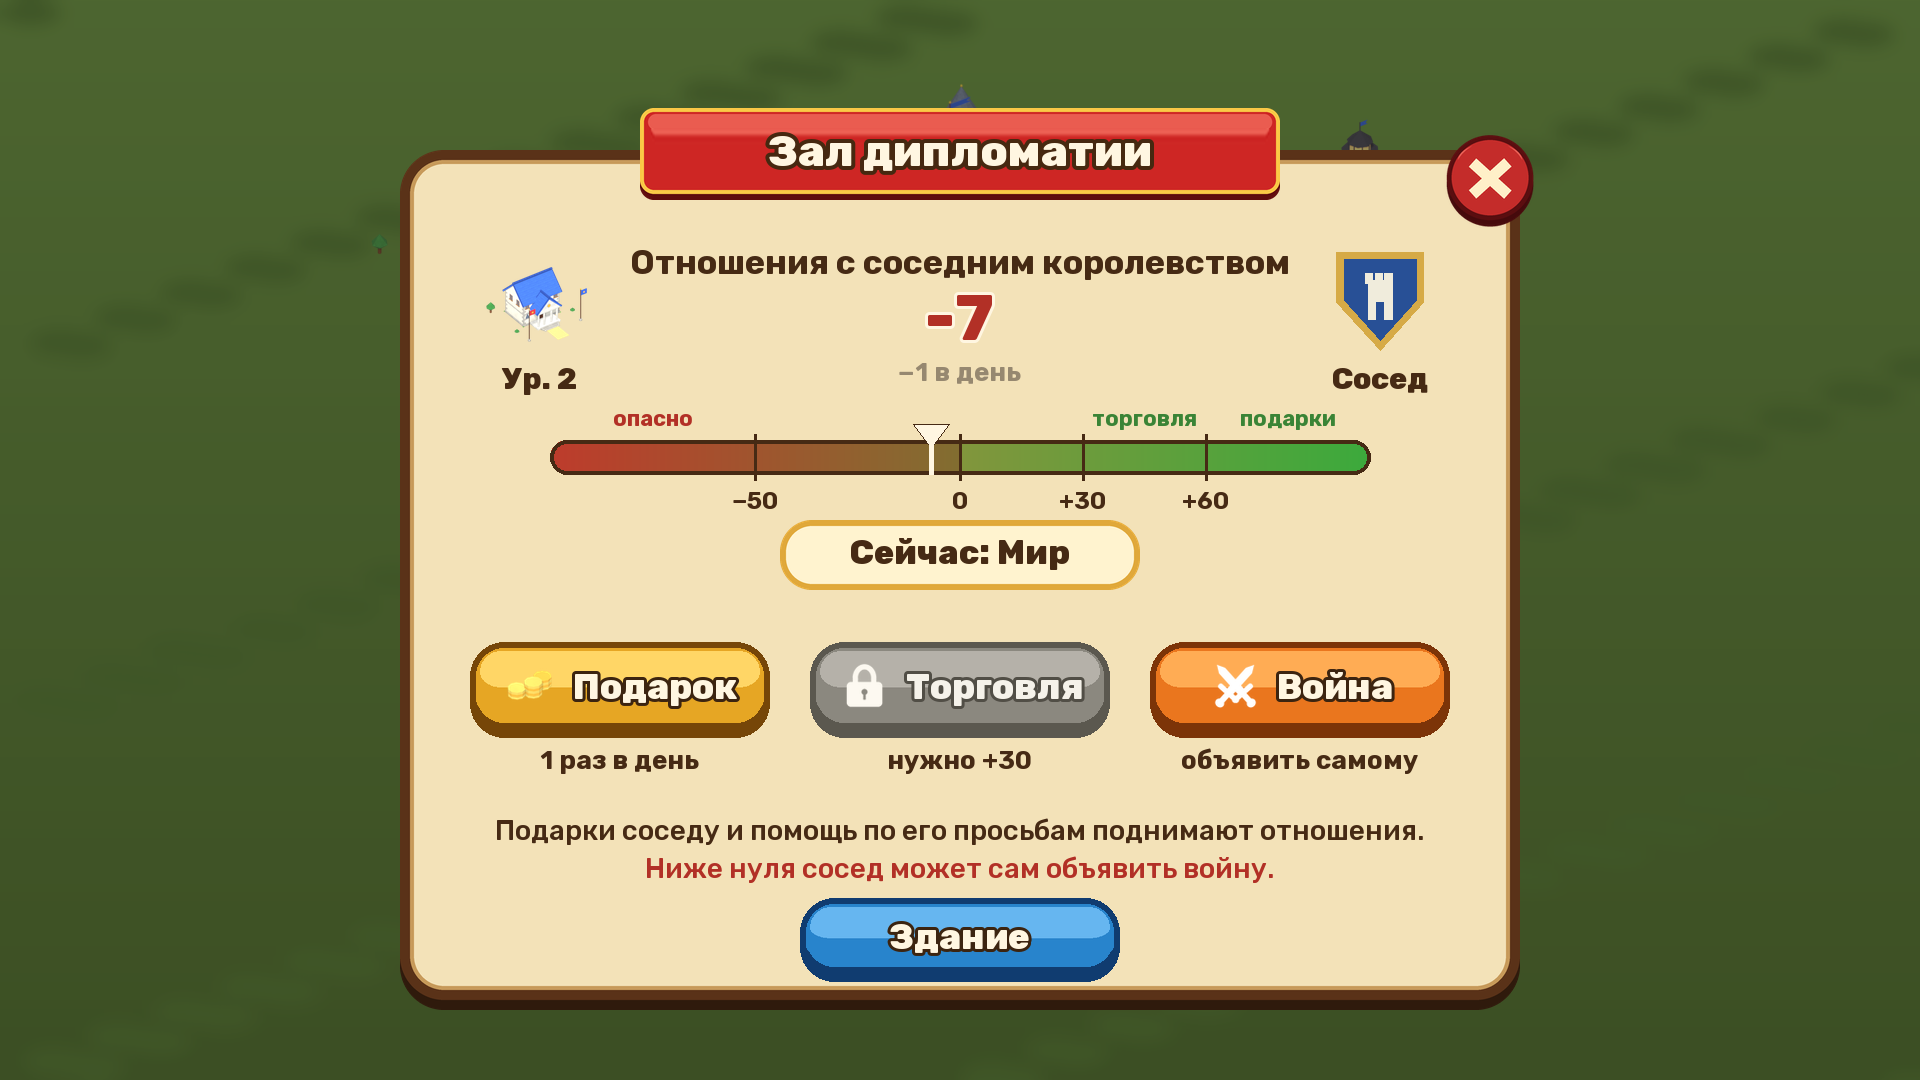
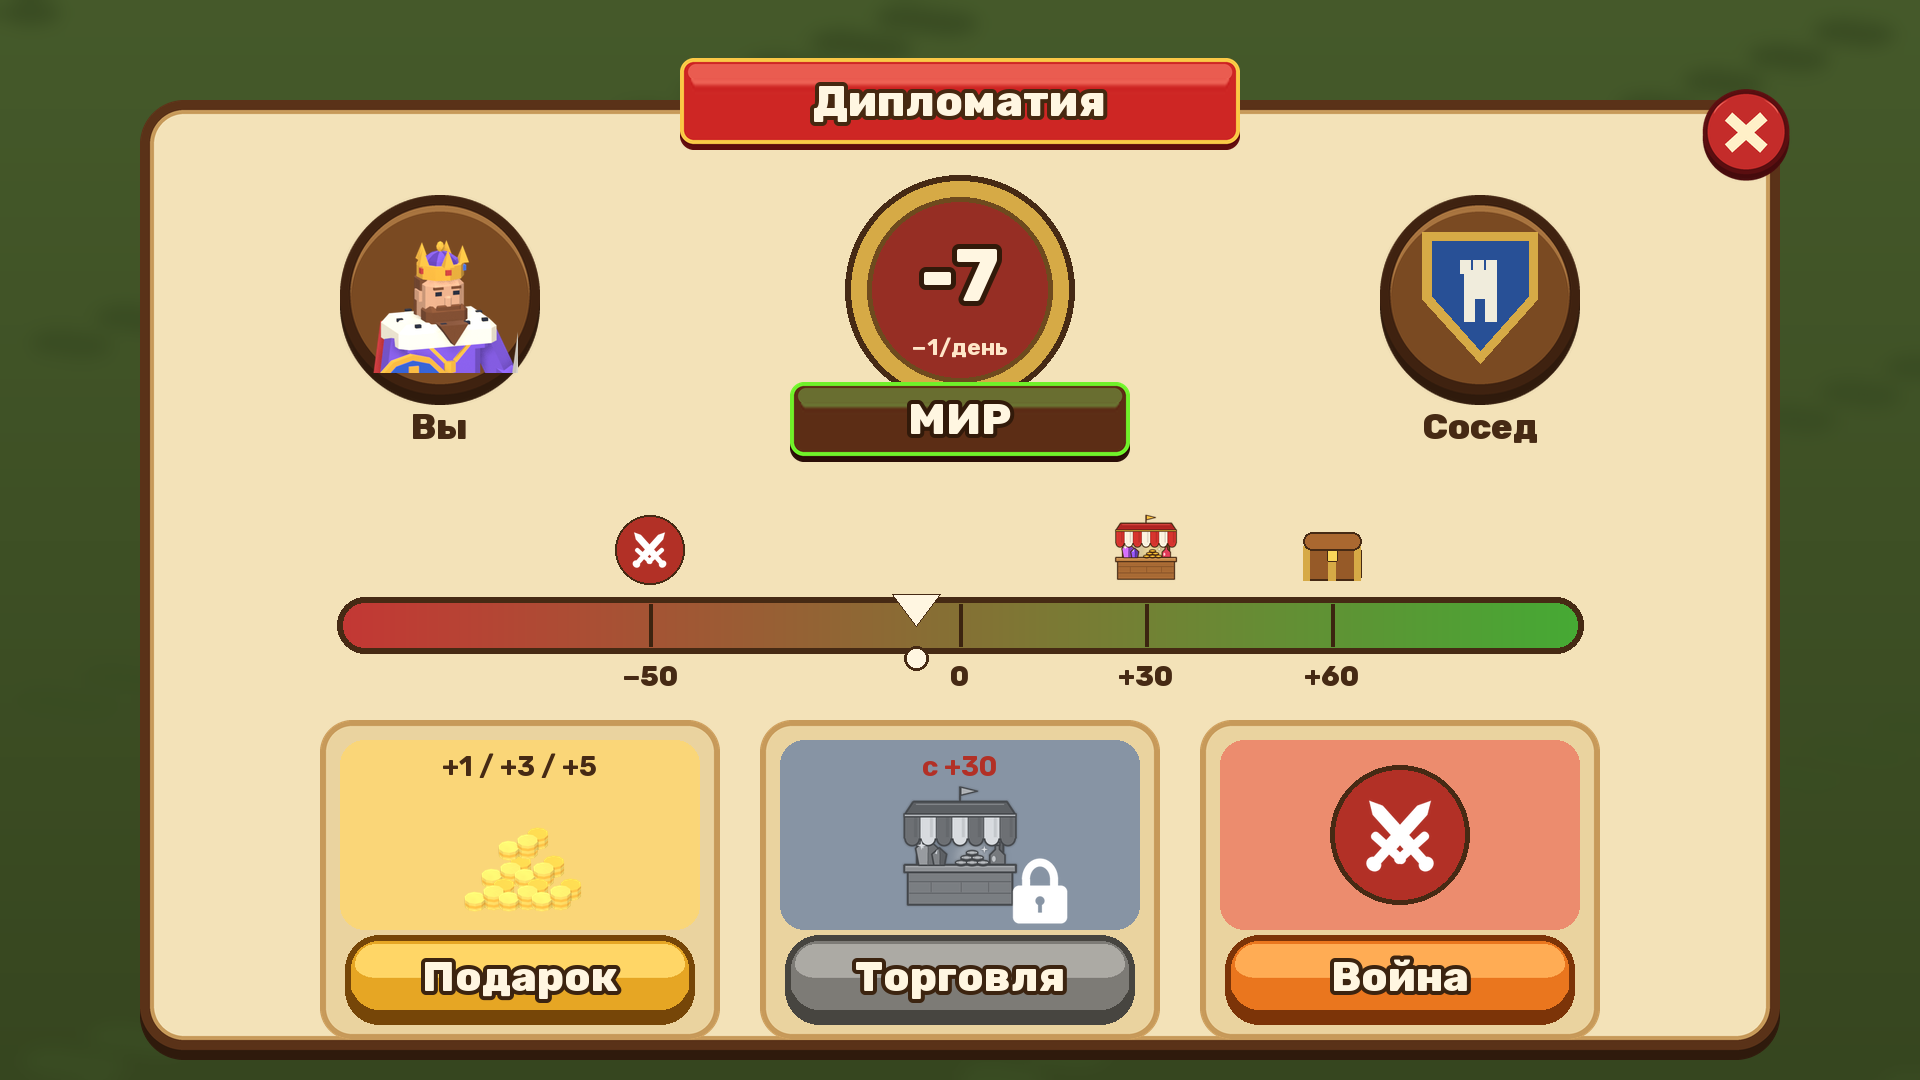
Diplomacy window v2 concepts: own button left of «!», a big picture window (peace, war)

diff --git a/Tools/ui/diplomacy_window_v2.py b/Tools/ui/diplomacy_window_v2.py
@@ -1,0 +1,188 @@
+"""Diplomacy round 2 (the user, 2026-11-17): the Hall held gets its own round DIPLOMACY button
+left of the «!» (the «!» keeps the card and upgrades); the window is big, pictures instead of
+sentences, no «Здание» button.
+
+    python Tools/ui/diplomacy_window_v2.py  ->  Design/ui/Diplomacy_0_Selection.png, _1_, _2_, Diplomacy_Window_v2.jpg
+"""
+import os
+from PIL import Image, ImageDraw
+
+from diplomacy_concepts import (W, H, INK, CREAM, RED, SKIN, SHOP, GLYPHS, ICONS, OUT, load, nine, panel, card,
+                                button, grey, text, put, ground, dim, title_bar, close_btn, crest, chest, res, sheet)
+
+
+def round_button(size, glyph=None, mark=None):
+    b = load(SKIN, "round", (size, int(size * 202 / 192)))
+    if glyph is not None:
+        g = glyph.resize((int(size * .62), int(size * .62)), Image.LANCZOS)
+        b.alpha_composite(g, ((b.width - g.width) // 2, (b.height - g.height) // 2 - 4))
+    if mark:
+        text(ImageDraw.Draw(b), (b.width / 2, b.height / 2 - 2), mark, int(size * .6), CREAM, stroke=4, stroke_fill=(60, 36, 16))
+    return b
+
+
+def diplomacy_glyph(size=128):
+    """A sealed scroll over the neighbour's shield."""
+    im = Image.new("RGBA", (size, size))
+    s = size / 100
+    im.alpha_composite(crest(int(70 * s)), (int(30 * s), int(2 * s)))
+    d = ImageDraw.Draw(im)
+    d.rounded_rectangle([10 * s, 52 * s, 74 * s, 82 * s], 6 * s, fill=(246, 232, 196, 255), outline=INK + (255,), width=int(3 * s))
+    d.ellipse([4 * s, 50 * s, 18 * s, 84 * s], fill=(226, 206, 160, 255), outline=INK + (255,), width=int(3 * s))
+    for k in range(3):
+        d.line([(24 * s, (60 + k * 7) * s), (58 * s, (60 + k * 7) * s)], fill=(150, 120, 80, 255), width=int(2.5 * s))
+    d.ellipse([60 * s, 70 * s, 82 * s, 92 * s], fill=(190, 40, 40, 255), outline=INK + (255,), width=int(2 * s))
+    return im
+
+
+def selection():
+    c = ground()
+    d = ImageDraw.Draw(c)
+    cx, cy = W // 2, 470
+    ring = Image.new("RGBA", (620, 300))
+    ImageDraw.Draw(ring).ellipse([10, 10, 610, 290], outline=(255, 214, 60, 255), width=12)
+    put(c, ring, cx, cy + 90)
+    put(c, load(ICONS, "DiplomacyHall", (440, 440)), cx, cy)
+    y, gap, size = 860, 40, 150
+    lx, rx = cx - (size + gap) / 2, cx + (size + gap) / 2
+    put(c, round_button(size, diplomacy_glyph()), lx, y)
+    put(c, round_button(size, mark="!"), rx, y)
+    text(d, (lx, y + 112), "Дипломатия", 30, CREAM, stroke=3, stroke_fill=INK)
+    text(d, (rx, y + 112), "Здание", 30, CREAM, stroke=3, stroke_fill=INK)
+    text(d, (cx, 70), "Зал выбран: слева — отношения, справа «!» — карточка и улучшение", 34, CREAM, "Bold", stroke=3, stroke_fill=INK)
+    return c
+
+
+def medallion(size, value):
+    im = Image.new("RGBA", (size, size))
+    d = ImageDraw.Draw(im)
+    d.ellipse([0, 0, size - 1, size - 1], fill=(214, 170, 70, 255), outline=INK + (255,), width=6)
+    inner = (150, 46, 36) if value < 0 else (64, 130, 60)
+    d.ellipse([22, 22, size - 23, size - 23], fill=inner + (255,), outline=(110, 74, 30, 255), width=5)
+    text(d, (size / 2, size / 2 - 14), f"{value:+d}", int(size * .32), CREAM, stroke=5, stroke_fill=(50, 26, 10))
+    text(d, (size / 2, size / 2 + size * .25), "−1/день", int(size * .1), (255, 230, 200), "Bold")
+    return im
+
+
+def big_scale(c, x0, y, w, value):
+    h = 50
+    band = Image.new("RGBA", (w, h))
+    bd = ImageDraw.Draw(band)
+    for i in range(w):
+        k = i / (w - 1)
+        bd.line([(i, 0), (i, h)], fill=(int(196 * (1 - k) + 70 * k), int(56 * (1 - k) + 170 * k), 52, 255))
+    mask = Image.new("L", (w, h))
+    ImageDraw.Draw(mask).rounded_rectangle([0, 0, w - 1, h - 1], h // 2, fill=255)
+    c.paste(band, (x0, y), mask)
+    d = ImageDraw.Draw(c)
+    d.rounded_rectangle([x0 - 3, y - 3, x0 + w + 3, y + h + 3], h // 2 + 3, outline=INK, width=6)
+
+    def at(v):
+        return x0 + (v + 100) / 200 * w
+    marks = [(-50, swords_disc(70), "−50"), (0, None, "0"),
+             (30, load(SHOP, "Stall", (76, 76)), "+30"), (60, chest(76, False), "+60")]
+    for v, ic, lab in marks:
+        x = at(v)
+        d.line([(x, y + 4), (x, y + h - 4)], fill=(60, 36, 16), width=4)
+        if ic is not None:
+            put(c, ic, x, y - 50)
+        text(d, (x, y + h + 26), lab, 28, INK)
+    x = at(value)
+    d.polygon([(x - 24, y - 6), (x + 24, y - 6), (x, y + 26)], fill=CREAM, outline=INK)
+    d.ellipse([x - 12, y + h - 4, x + 12, y + h + 20], fill=CREAM, outline=INK, width=3)
+
+
+TINT = {"gold": (250, 214, 120), "red": (236, 140, 110), "blue": (170, 200, 236), "green": (170, 220, 150), "grey": (214, 200, 176)}
+BTN = {"gold": "gold", "red": "orange", "blue": "blue", "green": "green", "grey": "blue"}
+
+
+def tile(c, cx, top, w, h, kind, icon, label, sub=None, locked=False):
+    t = card(w, h)
+    inner = Image.new("RGBA", (w - 40, h - 130), TINT[kind] + (255,))
+    m = Image.new("L", inner.size)
+    ImageDraw.Draw(m).rounded_rectangle([0, 0, inner.width - 1, inner.height - 1], 24, fill=255)
+    if locked:
+        inner = Image.alpha_composite(inner, Image.new("RGBA", inner.size, (90, 80, 70, 110)))
+    t.paste(inner, (20, 20), m)
+    mid = 20 + (h - 130) / 2 + (16 if sub else 0)
+    put(t, grey(icon, .75) if locked else icon, w / 2, mid)
+    if locked:
+        put(t, load(GLYPHS, "Hud_Lock", (90, 90)), w / 2 + 80, mid + 40)
+    c.alpha_composite(t, (int(cx - w / 2), int(top)))
+    b = button(BTN[kind], w - 50, 90)
+    if locked:
+        b = grey(b, .9)
+    put(c, b, cx, top + h - 60)
+    d = ImageDraw.Draw(c)
+    text(d, (cx, top + h - 64), label, 42, CREAM, stroke=4, stroke_fill=(60, 36, 16))
+    if sub:
+        text(d, (cx, top + 46), sub, 28, RED if locked else INK, "Bold")
+
+
+def swords_disc(size):
+    im = Image.new("RGBA", (size, size))
+    ImageDraw.Draw(im).ellipse([0, 0, size - 1, size - 1], fill=(178, 48, 38, 255), outline=INK + (255,), width=max(2, size // 25))
+    g = load(GLYPHS, "Swords", (int(size * .7), int(size * .7)))
+    im.alpha_composite(g, ((size - g.width) // 2, (size - g.height) // 2))
+    return im
+
+
+def coin_pile(size):
+    im = Image.new("RGBA", (size, size))
+    for x, y in [(.18, .42), (.42, .42), (.30, .22), (.06, .58), (.30, .58), (.54, .58)]:
+        im.alpha_composite(res("coins", int(size * .48)), (int(x * size), int(y * size)))
+    return im
+
+
+def window(war=False):
+    c = ground()
+    dim(c, 130)
+    pw, ph = 1640, 960
+    px, py = (W - pw) // 2, 100
+    c.alpha_composite(panel(pw, ph), (px, py))
+    title_bar(c, W // 2, py + 4, "Дипломатия", w=560)
+    close_btn(c, px + pw - 34, py + 34)
+    d = ImageDraw.Draw(c)
+    cx = W // 2
+    value = -64 if war else -7
+    put(c, round_button(200), cx - 520, py + 200)
+    put(c, load(ICONS, "PortraitKing", (156, 156)), cx - 520, py + 195)
+    text(d, (cx - 520, py + 326), "Вы", 36)
+    put(c, round_button(200), cx + 520, py + 200)
+    put(c, crest(160, (140, 40, 40) if war else (40, 80, 150)), cx + 520, py + 196)
+    text(d, (cx + 520, py + 326), "Сосед", 36)
+    put(c, medallion(230, value), cx, py + 190)
+    rib = nine(os.path.join(SHOP, "Badge.png"), (340, 80), (40, 20, 40, 20))
+    if not war:
+        r, g, b_, a = rib.split()
+        rib = Image.merge("RGBA", (r.point(lambda v: int(v * .45)), g.point(lambda v: min(255, int(v * 1.2))), b_.point(lambda v: int(v * .6)), a))
+    put(c, rib, cx, py + 322)
+    text(d, (cx, py + 318), "ВОЙНА" if war else "МИР", 44, CREAM, stroke=4, stroke_fill=(50, 26, 10))
+    big_scale(c, px + 200, py + 500, pw - 400, value)
+    top, tw, th = py + 620, 400, 320
+    if not war:
+        tile(c, cx - 440, top, tw, th, "gold", coin_pile(140), "Подарок", "+1 / +3 / +5")
+        tile(c, cx, top, tw, th, "blue", load(SHOP, "Stall", (140, 140)), "Торговля", "с +30", locked=True)
+        tile(c, cx + 440, top, tw, th, "red", swords_disc(140), "Война")
+    else:
+        put(c, card(560, 60, True), cx, py + 392)
+        put(c, load(ICONS, "PortraitShipWar", (54, 54)), cx - 230, py + 390)
+        text(d, (cx + 16, py + 389), "Волна 3 · следующая 1:40", 32, RED)
+        tile(c, cx - 440, top, tw, th, "green", coin_pile(140), "450", "Мир за монеты")
+        tile(c, cx, top, tw, th, "blue", res("crystal", 130), "5", "Мир за кристаллы")
+        tile(c, cx + 440, top, tw, th, "grey", load(ICONS, "Castle", (140, 140)), "+10", "Снести их ратушу")
+    return c
+
+
+def main():
+    shots = [("0 Выбор зала: «Дипломатия» слева от «!»", selection(), "Diplomacy_0_Selection.png"),
+             ("1 Окно v2: мир", window(False), "Diplomacy_1_Window_Peace.png"),
+             ("2 Окно v2: война", window(True), "Diplomacy_2_Window_War.png")]
+    for _, im, name in shots:
+        im.convert("RGB").save(os.path.join(OUT, name), quality=92)
+    sheet([s[1] for s in shots], 3, os.path.join(OUT, "Diplomacy_Window_v2.jpg"), [s[0] for s in shots])
+    print("ok")
+
+
+if __name__ == "__main__":
+    main()

diff --git a/Design/features/bot.md b/Design/features/bot.md
@@ -291,3 +291,8 @@ from `ArchipelagoBotCell`; `TheBotKingdom_StandsOnItsIsland...` now checks each 
 - Hall levels: better rates and more interesting offers, richer bot gifts, cheaper peace.
 - Open: exact numbers (gift prices, war chance curve, warning threshold, crystals for the hall, refresh price), the offer table's
   columns, the level ladder; the user reviews the concepts first.
+- Round 2 (the user, 2026-11-17): the Hall held gets its OWN round «Дипломатия» button LEFT of the «!» (the «!» keeps
+  the card and upgrades; the window loses «Здание»). The window: big (1640x960), pictures not sentences -- you vs the
+  neighbour across a relations medallion, МИР/ВОЙНА ribbon, the scale with icons at -50/+30/+60, three picture tiles
+  (Подарок / Торговля locked below +30 / Война; at war: peace for coins, for crystals, raze their hall +N crystals).
+  Concepts: Tools/ui/diplomacy_window_v2.py -> Design/ui/Diplomacy_0_Selection, _1_, _2_, Diplomacy_Window_v2.jpg.
